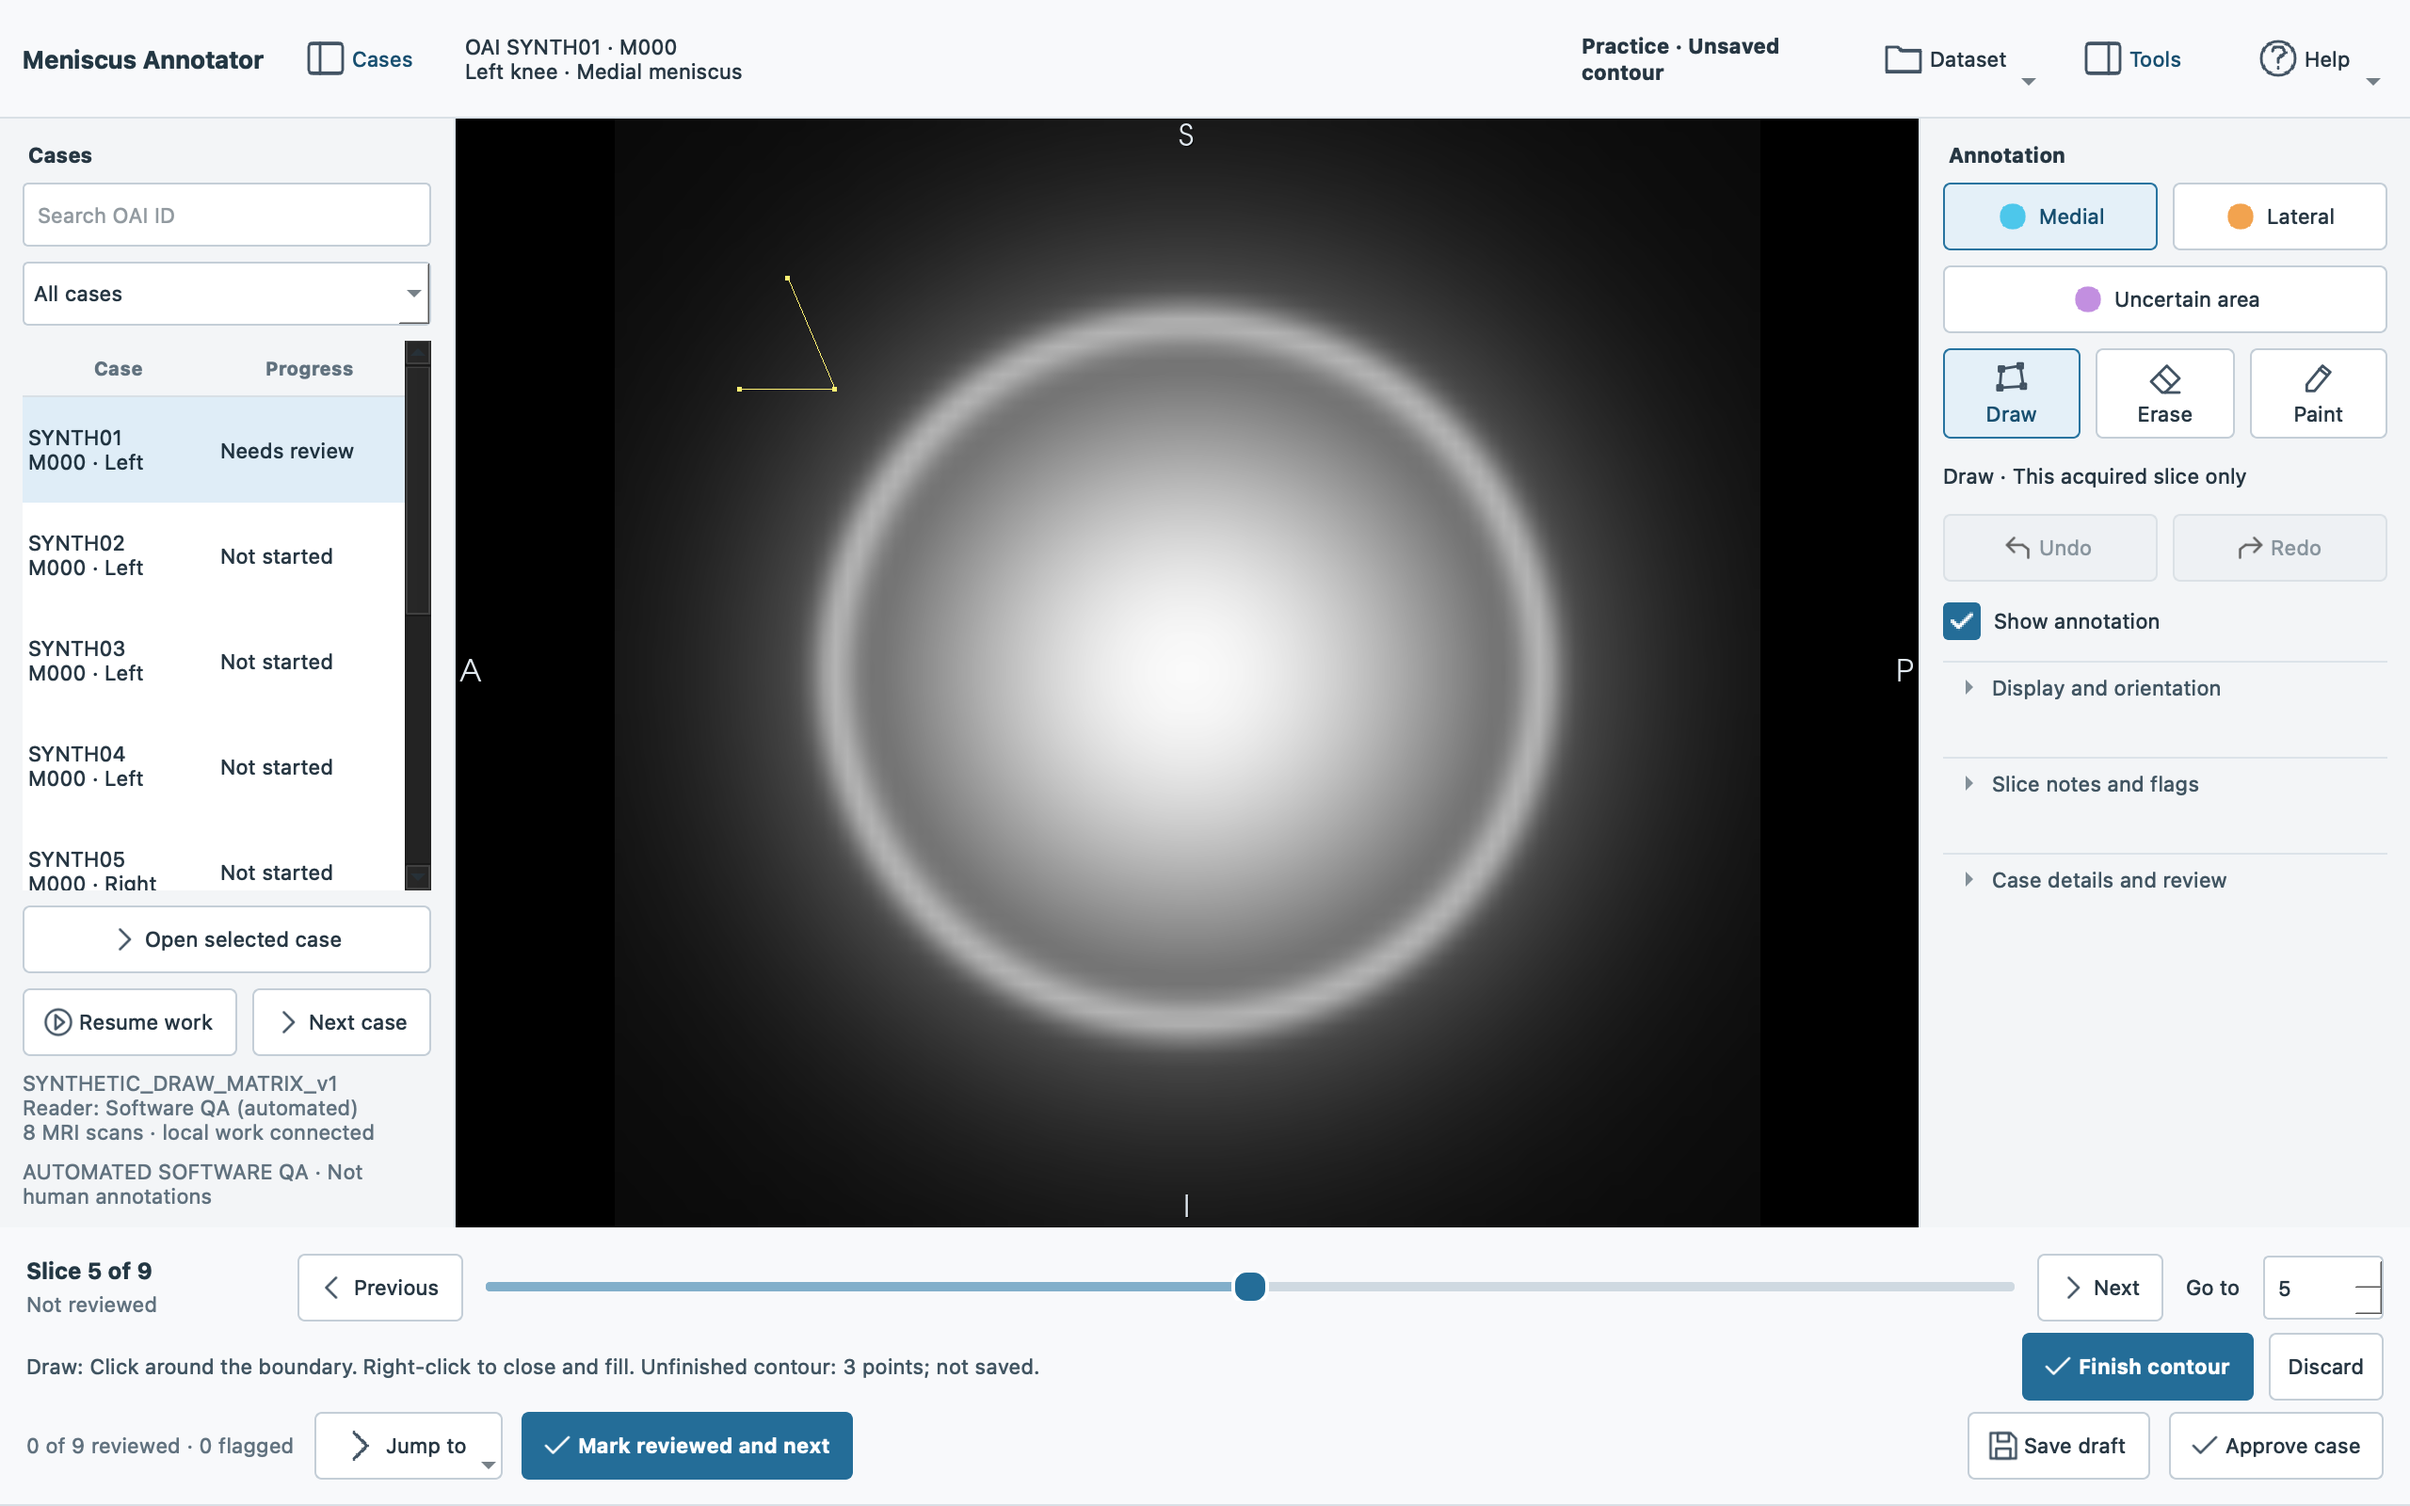
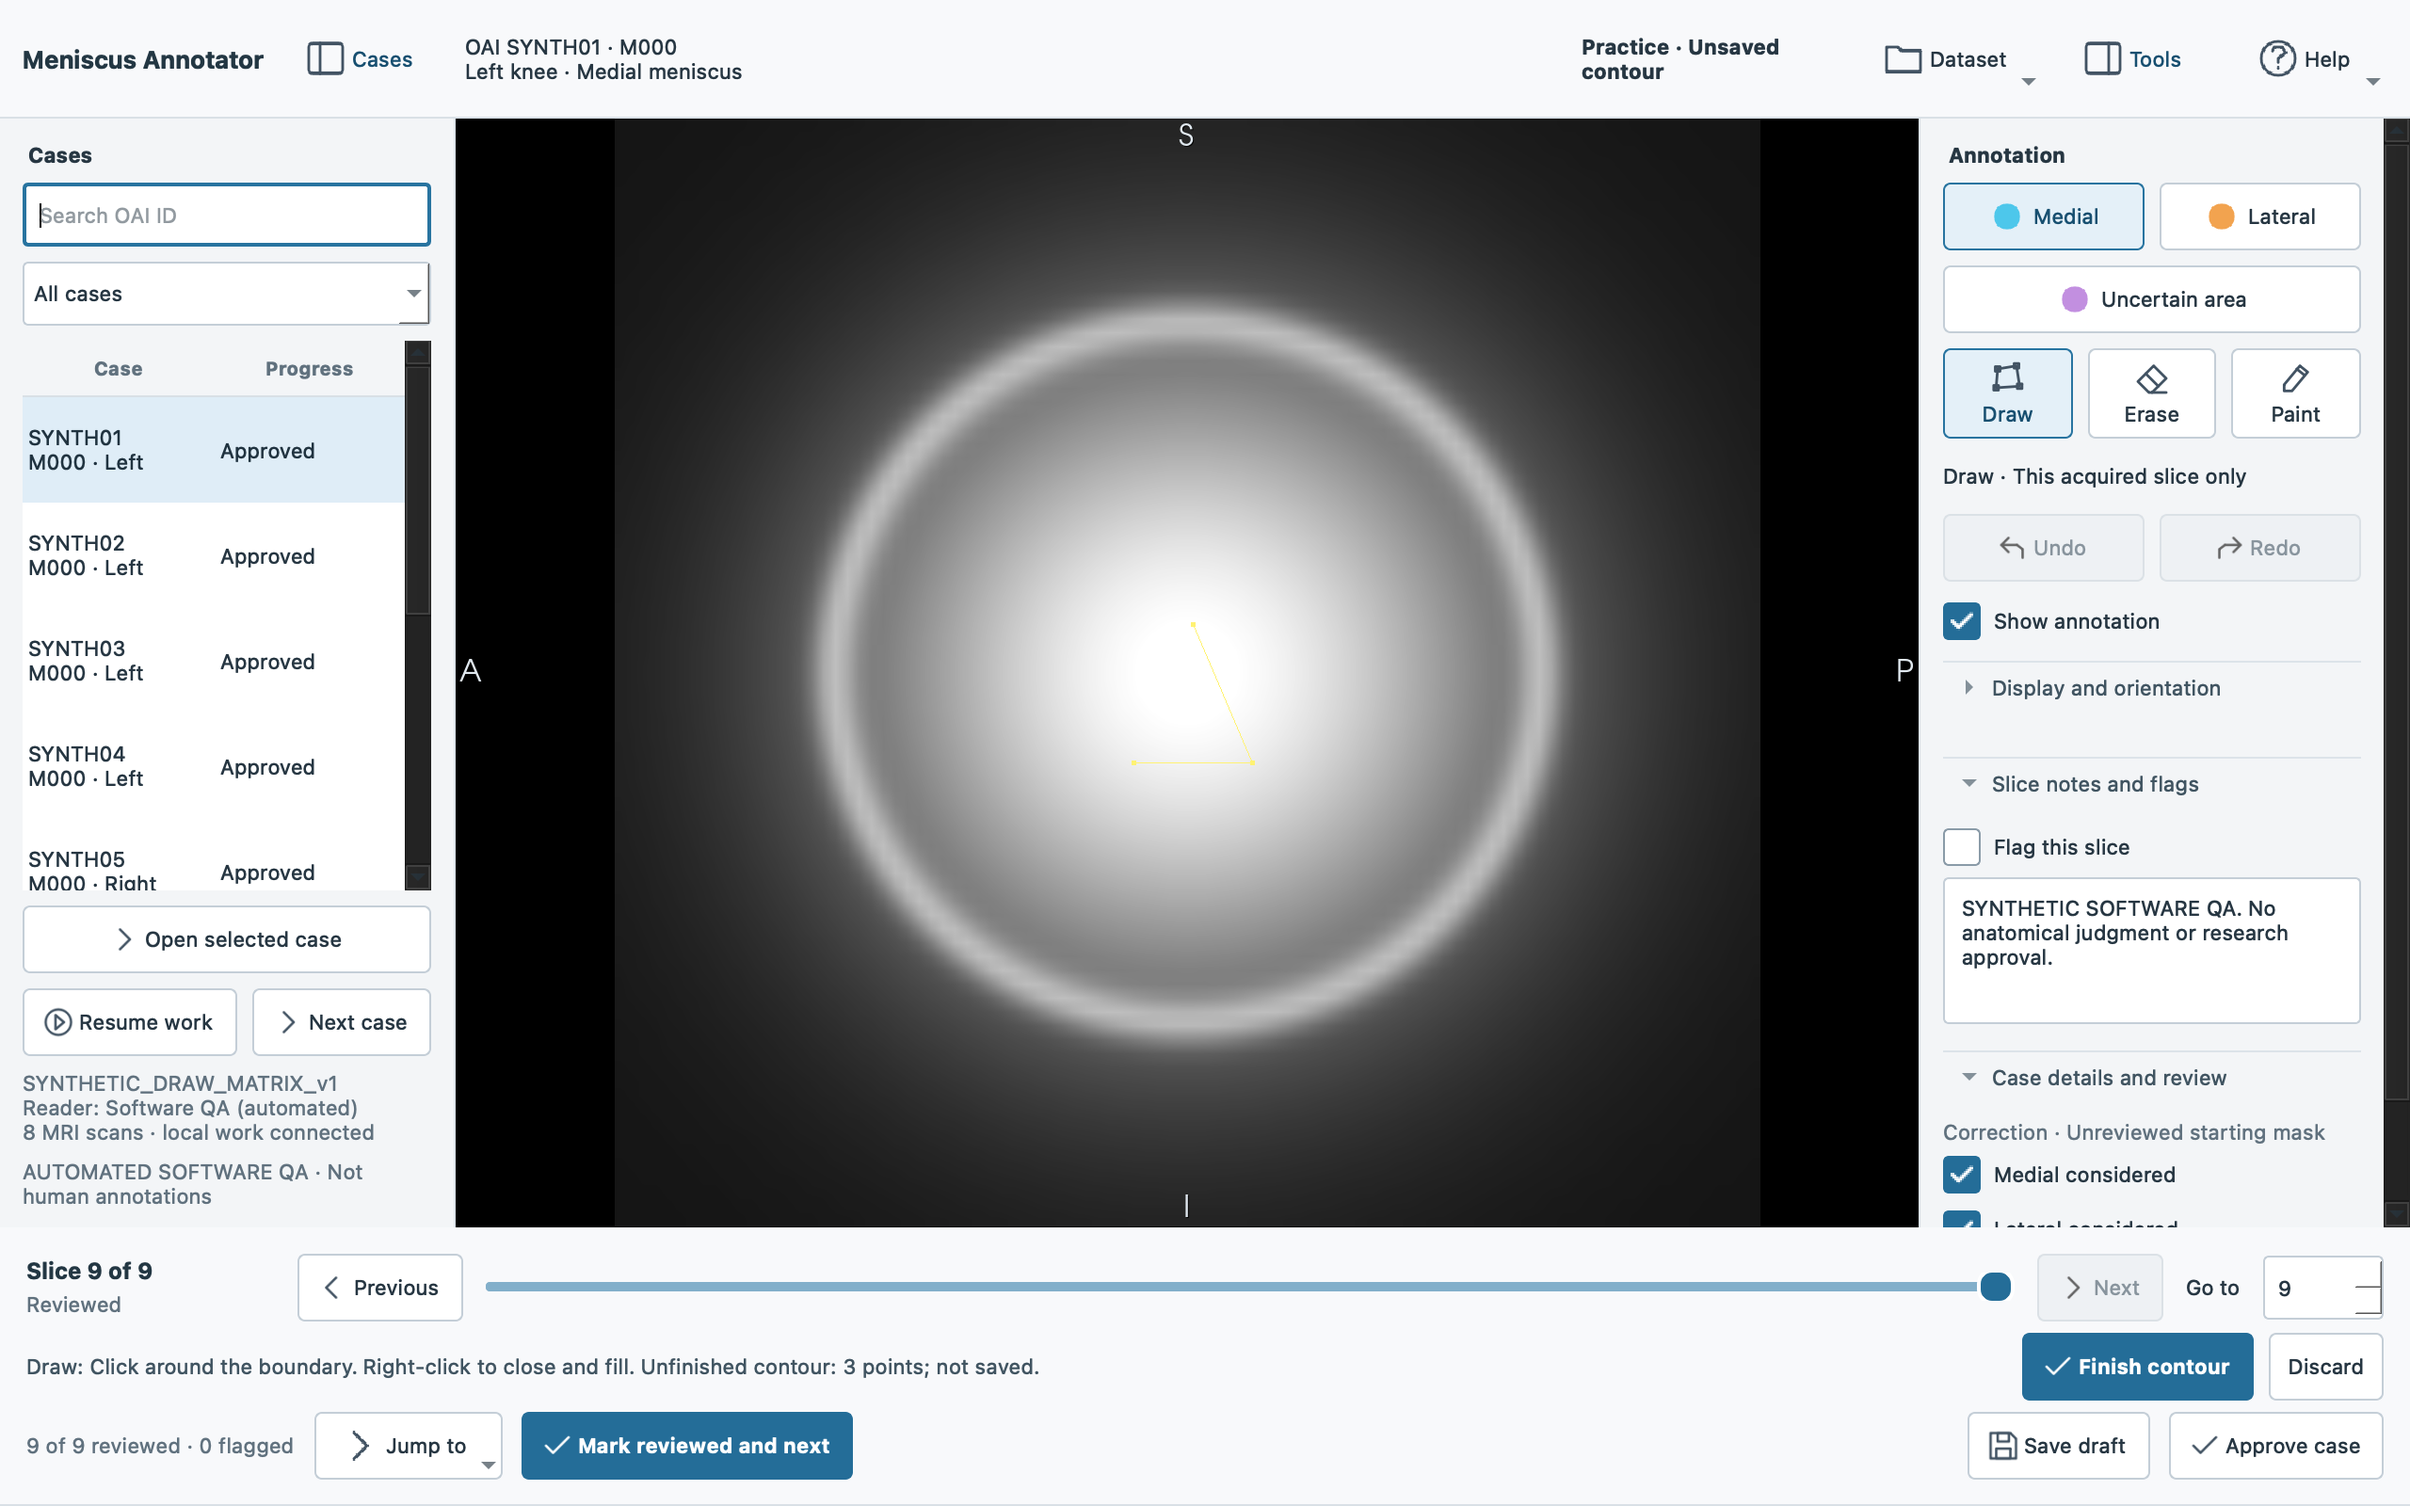
Bundle both approved synthetic guide screenshots with verified references

diff --git a/packaging/prebuilt/prepare.py b/packaging/prebuilt/prepare.py
@@ -16,6 +16,7 @@ import zipfile
 HERE = Path(__file__).resolve().parent
 REPO = HERE.parents[1]
 LOCK = json.loads((HERE / 'dependencies.json').read_text(encoding="utf-8"))
+GUIDE_IMAGES = ('annotation-workflow.png', 'draw-unfinished.png')
 
 def digest(path, algorithm='sha256'):
     h = hashlib.new(algorithm)
@@ -142,11 +143,21 @@ def prepare(runtime, installer, output, cache):
     (output / 'README-FIRST.txt').write_text('Meniscus Annotator 0.1.0\nBased on official 3D Slicer 5.12.4 r34645.\nOpen Meniscus Annotator from the Start menu, then Open dataset.\nDo not edit files in this installation directory. Saved work and exports live in your chosen local work/results folders.\nThis wrapped distribution retains upstream Slicer branding and runtime version. It is not a custom-compiled Slicer application.\n', encoding="utf-8")
     guide = REPO / 'docs' / 'USER_GUIDE.md'
     if guide.exists():
-        (output / 'UserGuide.txt').write_text(guide.read_text(encoding="utf-8").replace('images/annotation-workflow.png', 'GuideImages/annotation-workflow.png'), encoding="utf-8")
+        guide_text = guide.read_text(encoding='utf-8')
+        references = set(re.findall(r'!\[[^\]]*\]\(([^)]+)\)', guide_text))
+        allowed = {'images/' + name for name in GUIDE_IMAGES}
+        if references - allowed:
+            raise ValueError('Reader guide references an image outside the explicit synthetic-image whitelist.')
+        for name in GUIDE_IMAGES:
+            guide_text = guide_text.replace('images/' + name, 'GuideImages/' + name)
+        (output / 'UserGuide.txt').write_text(guide_text, encoding='utf-8')
     shutil.copy2(REPO / 'docs' / 'QUICK_START.html', output / 'ReaderGuide.html')
-    image = REPO / 'docs' / 'images' / 'annotation-workflow.png'
-    if image.exists():
-        (output / 'GuideImages').mkdir()
+    (output / 'GuideImages').mkdir()
+    # Explicit data-free screenshots only, never a general source-image copy.
+    for name in GUIDE_IMAGES:
+        image = REPO / 'docs' / 'images' / name
+        if not image.is_file():
+            raise ValueError('Required synthetic reader guide image is missing: ' + name)
         shutil.copy2(image, output / 'GuideImages' / image.name)
     for name, sha in original_files.items():
         if digest(output / name) != sha:

diff --git a/packaging/prebuilt/tests/test_launcher_assembly.py b/packaging/prebuilt/tests/test_launcher_assembly.py
@@ -2,6 +2,7 @@
 import importlib.util
 import json
 from pathlib import Path
+import re
 import zipfile
 
 
@@ -57,6 +58,14 @@ def test_every_real_test_application_has_its_canonical_launcher_settings(tmp_pat
     assert not (output / 'bin/opengl32.dll').exists()  # diagnostic alias is never shipped
     assert (output / 'ReaderGuide.html').read_bytes() == (repo / 'docs/QUICK_START.html').read_bytes()
     assert 'ReaderGuide.html' in manifest['files_sha256']
+    guide_text = (output / 'UserGuide.txt').read_text(encoding='utf-8')
+    references = set(re.findall(r'!\[[^\]]*\]\(([^)]+)\)', guide_text))
+    assert references == {'GuideImages/annotation-workflow.png', 'GuideImages/draw-unfinished.png'}
+    for relative in references:
+        target = output / relative
+        source = repo / 'docs/images' / target.name
+        assert target.is_file() and target.read_bytes() == source.read_bytes()
+        assert manifest['files_sha256'][relative] == prepare.digest(source)
 
     test_defaults = (output / 'share/Slicer-5.12/MeniscusAnnotatorTestDefaultSettings.ini').read_text(encoding='utf-8')
     assert 'HomeModule=MeniscusAnnotator\n' in test_defaults
